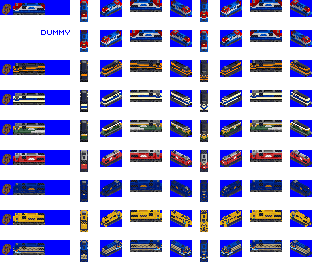
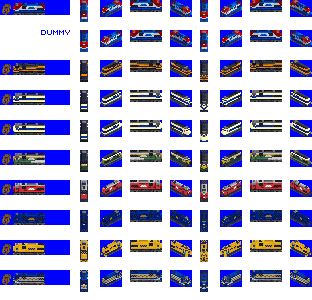
Add: Kwankwang-ho livery to K7x00, apply #241

diff --git a/docs/download_page/japanese.html b/docs/download_page/japanese.html
@@ -80,7 +80,7 @@
         <td class="introduction">1986</td>
     </tr>
     <tr data-veh_id="K7X00">
-        <td class="refit"><div><img src="./_static/K7x00_RED_WHITE_BLUE.png" alt="7x00号帯ディーゼル機関車"><br /><img src="./_static/K7x00_BLUE_WHITE.png" alt="7x00号帯ディーゼル機関車"><br /><img src="./_static/K7x00_GREEN_YELLOW.png" alt="7x00号帯ディーゼル機関車"><br /><img src="./_static/K7x00_BLACK_ORANGE.png" alt="7x00号帯ディーゼル機関車"><br /><img src="./_static/K7x00_CARGO.png" alt="7x00号帯ディーゼル機関車"><br /><img src="./_static/K7x00_HAERANG.png" alt="7x00号帯ディーゼル機関車"><br /><img src="./_static/K7x00_G_TRAIN.png" alt="7x00号帯ディーゼル機関車"><br /><img src="./_static/K7x00_S_TRAIN.png" alt="7x00号帯ディーゼル機関車"></div></td>
+        <td class="refit"><div><img src="./_static/K7x00_RED_WHITE_BLUE.png" alt="7x00号帯ディーゼル機関車"><br /><img src="./_static/K7x00_BLUE_WHITE.png" alt="7x00号帯ディーゼル機関車"><br /><img src="./_static/K7x00_BLACK_ORANGE.png" alt="7x00号帯ディーゼル機関車"><br /><img src="./_static/K7x00_KWANKWANG.png" alt="7x00号帯ディーゼル機関車"><br /><img src="./_static/K7x00_GREEN_YELLOW.png" alt="7x00号帯ディーゼル機関車"><br /><img src="./_static/K7x00_CARGO.png" alt="7x00号帯ディーゼル機関車"><br /><img src="./_static/K7x00_HAERANG.png" alt="7x00号帯ディーゼル機関車"><br /><img src="./_static/K7x00_G_TRAIN.png" alt="7x00号帯ディーゼル機関車"><br /><img src="./_static/K7x00_S_TRAIN.png" alt="7x00号帯ディーゼル機関車"></div></td>
         <td class="name">7x00号帯ディーゼル機関車</td>
         <td class="speed">150 km/h</td>
         <td class="speed_designed">150 km/h</td>

diff --git a/docs/download_page/korean.html b/docs/download_page/korean.html
@@ -80,7 +80,7 @@
         <td class="introduction">1986</td>
     </tr>
     <tr data-veh_id="K7X00">
-        <td class="refit"><div><img src="./_static/K7x00_RED_WHITE_BLUE.png" alt="7x00호대 디젤 기관차"><br /><img src="./_static/K7x00_BLUE_WHITE.png" alt="7x00호대 디젤 기관차"><br /><img src="./_static/K7x00_GREEN_YELLOW.png" alt="7x00호대 디젤 기관차"><br /><img src="./_static/K7x00_BLACK_ORANGE.png" alt="7x00호대 디젤 기관차"><br /><img src="./_static/K7x00_CARGO.png" alt="7x00호대 디젤 기관차"><br /><img src="./_static/K7x00_HAERANG.png" alt="7x00호대 디젤 기관차"><br /><img src="./_static/K7x00_G_TRAIN.png" alt="7x00호대 디젤 기관차"><br /><img src="./_static/K7x00_S_TRAIN.png" alt="7x00호대 디젤 기관차"></div></td>
+        <td class="refit"><div><img src="./_static/K7x00_RED_WHITE_BLUE.png" alt="7x00호대 디젤 기관차"><br /><img src="./_static/K7x00_BLUE_WHITE.png" alt="7x00호대 디젤 기관차"><br /><img src="./_static/K7x00_BLACK_ORANGE.png" alt="7x00호대 디젤 기관차"><br /><img src="./_static/K7x00_KWANKWANG.png" alt="7x00호대 디젤 기관차"><br /><img src="./_static/K7x00_GREEN_YELLOW.png" alt="7x00호대 디젤 기관차"><br /><img src="./_static/K7x00_CARGO.png" alt="7x00호대 디젤 기관차"><br /><img src="./_static/K7x00_HAERANG.png" alt="7x00호대 디젤 기관차"><br /><img src="./_static/K7x00_G_TRAIN.png" alt="7x00호대 디젤 기관차"><br /><img src="./_static/K7x00_S_TRAIN.png" alt="7x00호대 디젤 기관차"></div></td>
         <td class="name">7x00호대 디젤 기관차</td>
         <td class="speed">150 km/h</td>
         <td class="speed_designed">150 km/h</td>

diff --git a/docs/download_page/english.html b/docs/download_page/english.html
@@ -80,7 +80,7 @@
         <td class="introduction">1986</td>
     </tr>
     <tr data-veh_id="K7X00">
-        <td class="refit"><div><img src="./_static/K7x00_RED_WHITE_BLUE.png" alt="7x00 Diesel Locomotive"><br /><img src="./_static/K7x00_BLUE_WHITE.png" alt="7x00 Diesel Locomotive"><br /><img src="./_static/K7x00_GREEN_YELLOW.png" alt="7x00 Diesel Locomotive"><br /><img src="./_static/K7x00_BLACK_ORANGE.png" alt="7x00 Diesel Locomotive"><br /><img src="./_static/K7x00_CARGO.png" alt="7x00 Diesel Locomotive"><br /><img src="./_static/K7x00_HAERANG.png" alt="7x00 Diesel Locomotive"><br /><img src="./_static/K7x00_G_TRAIN.png" alt="7x00 Diesel Locomotive"><br /><img src="./_static/K7x00_S_TRAIN.png" alt="7x00 Diesel Locomotive"></div></td>
+        <td class="refit"><div><img src="./_static/K7x00_RED_WHITE_BLUE.png" alt="7x00 Diesel Locomotive"><br /><img src="./_static/K7x00_BLUE_WHITE.png" alt="7x00 Diesel Locomotive"><br /><img src="./_static/K7x00_BLACK_ORANGE.png" alt="7x00 Diesel Locomotive"><br /><img src="./_static/K7x00_KWANKWANG.png" alt="7x00 Diesel Locomotive"><br /><img src="./_static/K7x00_GREEN_YELLOW.png" alt="7x00 Diesel Locomotive"><br /><img src="./_static/K7x00_CARGO.png" alt="7x00 Diesel Locomotive"><br /><img src="./_static/K7x00_HAERANG.png" alt="7x00 Diesel Locomotive"><br /><img src="./_static/K7x00_G_TRAIN.png" alt="7x00 Diesel Locomotive"><br /><img src="./_static/K7x00_S_TRAIN.png" alt="7x00 Diesel Locomotive"></div></td>
         <td class="name">7x00 Diesel Locomotive</td>
         <td class="speed">150 km/h</td>
         <td class="speed_designed">150 km/h</td>

diff --git a/docs/download_page/japanese.md b/docs/download_page/japanese.md
@@ -80,7 +80,7 @@
         <td class="introduction">1986</td>
     </tr>
     <tr data-veh_id="K7X00">
-        <td class="refit"><div><img src="./_static/K7x00_RED_WHITE_BLUE.png" alt="7x00号帯ディーゼル機関車"><br /><img src="./_static/K7x00_BLUE_WHITE.png" alt="7x00号帯ディーゼル機関車"><br /><img src="./_static/K7x00_GREEN_YELLOW.png" alt="7x00号帯ディーゼル機関車"><br /><img src="./_static/K7x00_BLACK_ORANGE.png" alt="7x00号帯ディーゼル機関車"><br /><img src="./_static/K7x00_CARGO.png" alt="7x00号帯ディーゼル機関車"><br /><img src="./_static/K7x00_HAERANG.png" alt="7x00号帯ディーゼル機関車"><br /><img src="./_static/K7x00_G_TRAIN.png" alt="7x00号帯ディーゼル機関車"><br /><img src="./_static/K7x00_S_TRAIN.png" alt="7x00号帯ディーゼル機関車"></div></td>
+        <td class="refit"><div><img src="./_static/K7x00_RED_WHITE_BLUE.png" alt="7x00号帯ディーゼル機関車"><br /><img src="./_static/K7x00_BLUE_WHITE.png" alt="7x00号帯ディーゼル機関車"><br /><img src="./_static/K7x00_BLACK_ORANGE.png" alt="7x00号帯ディーゼル機関車"><br /><img src="./_static/K7x00_KWANKWANG.png" alt="7x00号帯ディーゼル機関車"><br /><img src="./_static/K7x00_GREEN_YELLOW.png" alt="7x00号帯ディーゼル機関車"><br /><img src="./_static/K7x00_CARGO.png" alt="7x00号帯ディーゼル機関車"><br /><img src="./_static/K7x00_HAERANG.png" alt="7x00号帯ディーゼル機関車"><br /><img src="./_static/K7x00_G_TRAIN.png" alt="7x00号帯ディーゼル機関車"><br /><img src="./_static/K7x00_S_TRAIN.png" alt="7x00号帯ディーゼル機関車"></div></td>
         <td class="name">7x00号帯ディーゼル機関車</td>
         <td class="speed">150 km/h</td>
         <td class="speed_designed">150 km/h</td>

diff --git a/docs/download_page/korean.md b/docs/download_page/korean.md
@@ -80,7 +80,7 @@
         <td class="introduction">1986</td>
     </tr>
     <tr data-veh_id="K7X00">
-        <td class="refit"><div><img src="./_static/K7x00_RED_WHITE_BLUE.png" alt="7x00호대 디젤 기관차"><br /><img src="./_static/K7x00_BLUE_WHITE.png" alt="7x00호대 디젤 기관차"><br /><img src="./_static/K7x00_GREEN_YELLOW.png" alt="7x00호대 디젤 기관차"><br /><img src="./_static/K7x00_BLACK_ORANGE.png" alt="7x00호대 디젤 기관차"><br /><img src="./_static/K7x00_CARGO.png" alt="7x00호대 디젤 기관차"><br /><img src="./_static/K7x00_HAERANG.png" alt="7x00호대 디젤 기관차"><br /><img src="./_static/K7x00_G_TRAIN.png" alt="7x00호대 디젤 기관차"><br /><img src="./_static/K7x00_S_TRAIN.png" alt="7x00호대 디젤 기관차"></div></td>
+        <td class="refit"><div><img src="./_static/K7x00_RED_WHITE_BLUE.png" alt="7x00호대 디젤 기관차"><br /><img src="./_static/K7x00_BLUE_WHITE.png" alt="7x00호대 디젤 기관차"><br /><img src="./_static/K7x00_BLACK_ORANGE.png" alt="7x00호대 디젤 기관차"><br /><img src="./_static/K7x00_KWANKWANG.png" alt="7x00호대 디젤 기관차"><br /><img src="./_static/K7x00_GREEN_YELLOW.png" alt="7x00호대 디젤 기관차"><br /><img src="./_static/K7x00_CARGO.png" alt="7x00호대 디젤 기관차"><br /><img src="./_static/K7x00_HAERANG.png" alt="7x00호대 디젤 기관차"><br /><img src="./_static/K7x00_G_TRAIN.png" alt="7x00호대 디젤 기관차"><br /><img src="./_static/K7x00_S_TRAIN.png" alt="7x00호대 디젤 기관차"></div></td>
         <td class="name">7x00호대 디젤 기관차</td>
         <td class="speed">150 km/h</td>
         <td class="speed_designed">150 km/h</td>

diff --git a/docs/download_page/english.md b/docs/download_page/english.md
@@ -80,7 +80,7 @@
         <td class="introduction">1986</td>
     </tr>
     <tr data-veh_id="K7X00">
-        <td class="refit"><div><img src="./_static/K7x00_RED_WHITE_BLUE.png" alt="7x00 Diesel Locomotive"><br /><img src="./_static/K7x00_BLUE_WHITE.png" alt="7x00 Diesel Locomotive"><br /><img src="./_static/K7x00_GREEN_YELLOW.png" alt="7x00 Diesel Locomotive"><br /><img src="./_static/K7x00_BLACK_ORANGE.png" alt="7x00 Diesel Locomotive"><br /><img src="./_static/K7x00_CARGO.png" alt="7x00 Diesel Locomotive"><br /><img src="./_static/K7x00_HAERANG.png" alt="7x00 Diesel Locomotive"><br /><img src="./_static/K7x00_G_TRAIN.png" alt="7x00 Diesel Locomotive"><br /><img src="./_static/K7x00_S_TRAIN.png" alt="7x00 Diesel Locomotive"></div></td>
+        <td class="refit"><div><img src="./_static/K7x00_RED_WHITE_BLUE.png" alt="7x00 Diesel Locomotive"><br /><img src="./_static/K7x00_BLUE_WHITE.png" alt="7x00 Diesel Locomotive"><br /><img src="./_static/K7x00_BLACK_ORANGE.png" alt="7x00 Diesel Locomotive"><br /><img src="./_static/K7x00_KWANKWANG.png" alt="7x00 Diesel Locomotive"><br /><img src="./_static/K7x00_GREEN_YELLOW.png" alt="7x00 Diesel Locomotive"><br /><img src="./_static/K7x00_CARGO.png" alt="7x00 Diesel Locomotive"><br /><img src="./_static/K7x00_HAERANG.png" alt="7x00 Diesel Locomotive"><br /><img src="./_static/K7x00_G_TRAIN.png" alt="7x00 Diesel Locomotive"><br /><img src="./_static/K7x00_S_TRAIN.png" alt="7x00 Diesel Locomotive"></div></td>
         <td class="name">7x00 Diesel Locomotive</td>
         <td class="speed">150 km/h</td>
         <td class="speed_designed">150 km/h</td>

diff --git a/docs/changelog.md b/docs/changelog.md
@@ -1,6 +1,7 @@
 2.1.1
 -----
  * 추가: 수도권 1호선 371K 회사 색상 도색 추가 [#271]
+ * 추가: 7x00호대 기관차에 관광호 도색 추가 [#241]
  * 변경: [FIRS] 평판화차(장물차)가 생산 장비(ENSP), 농장 비품(FMSP)을 실을 경우 기둥 그래픽을 제거 [#257]
  * 변경: 부산 도시철도 전동차 그래픽 개선 [#270]
  * 변경: 코레일 전동차 그래픽 개선 [#271]
